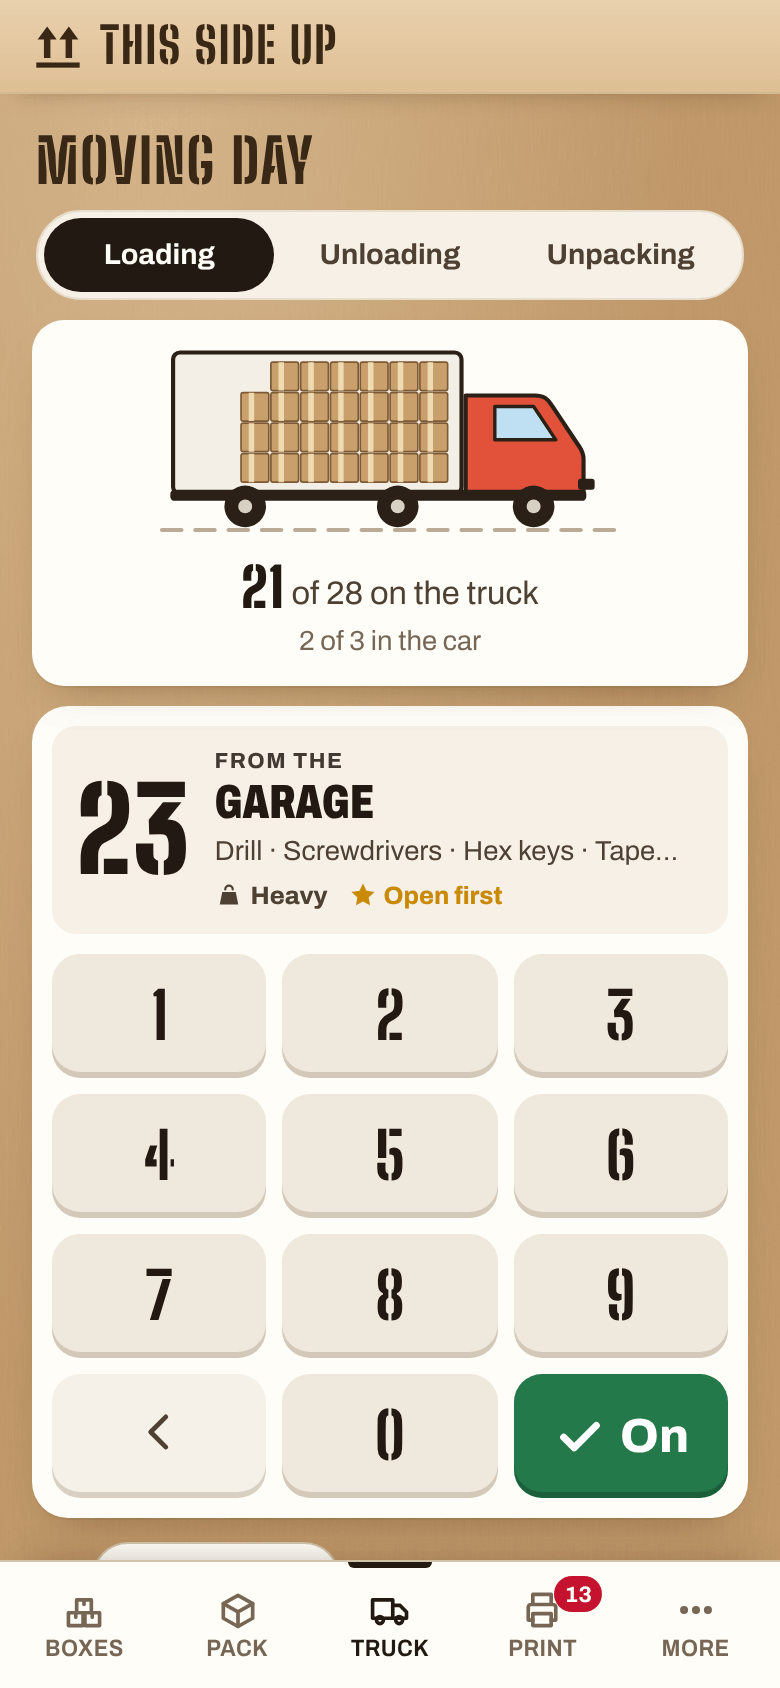
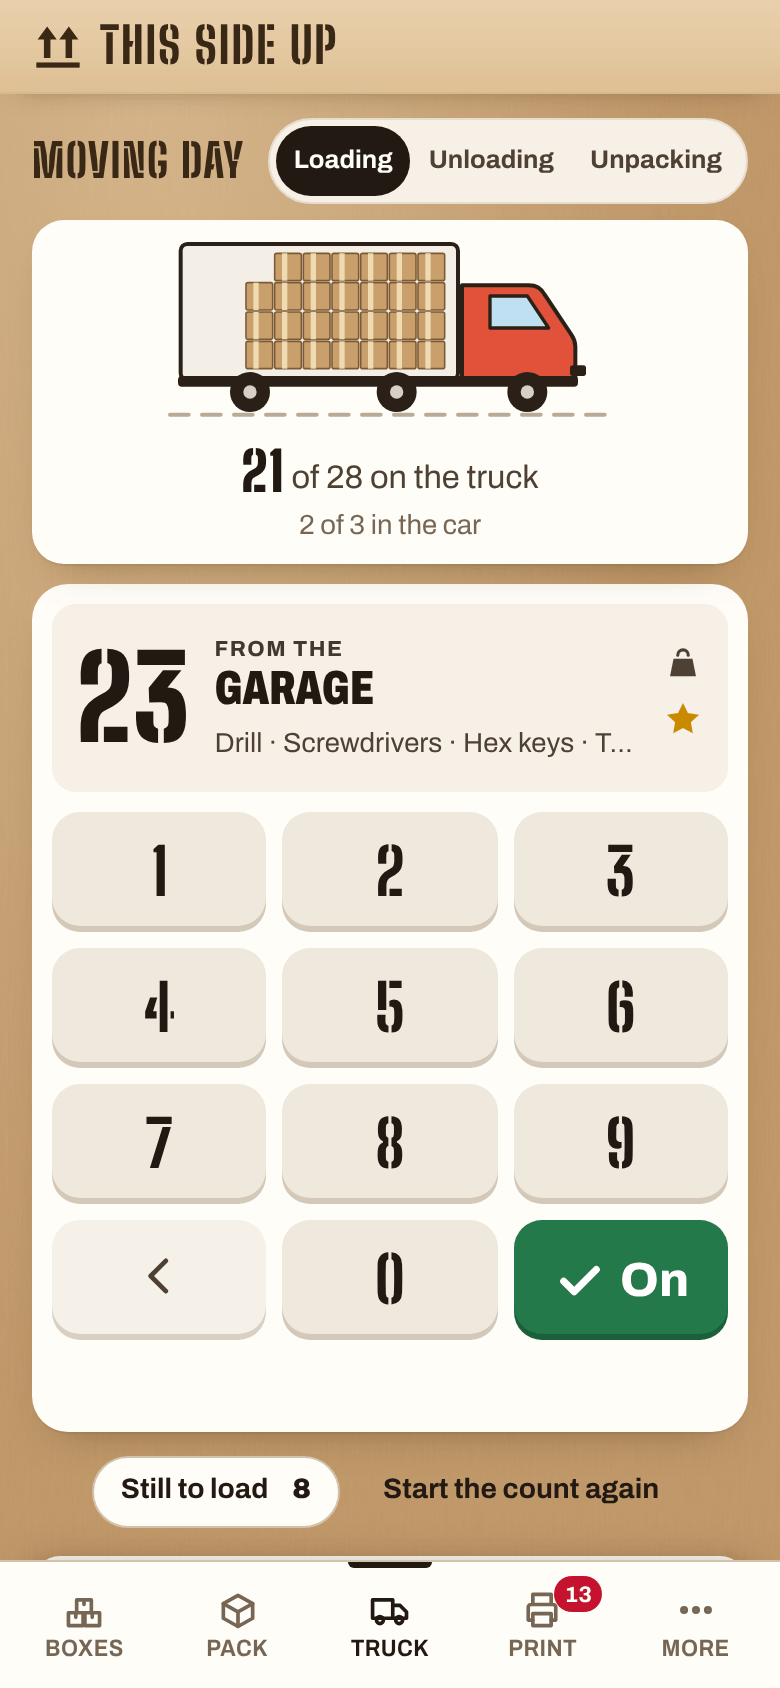
Screenshots show the new pad, and their codes open the real site
tools/screenshots.mjs served the page from a local server on a random port, so the QR code on the label in og.png
(and in the README's phone shots) was a link to http://localhost:38521/, and every run changed the images. It now
answers the real address from this folder, so the codes open junkdrawer.works/this-side-up/ and two runs give the
same files. A tab's id now comes from crypto, so it doesn't use up the seeded Math.random the example's ids come
from. docs/phone-truck.png shows the new number pad.

Claude-Session: https://claude.ai/code/session_01N3tHmrVtD9q2Zcak1ErX34

Changed region(s): [[0.0308, 0.0616, 0.9846, 0.9242]]

diff --git a/js/store.js b/js/store.js
@@ -105,7 +105,9 @@ const tab = (() => {
   let id = '';
   try { id = sessionStorage.getItem(TAB_KEY) || ''; } catch { /* no session storage: an id for this page */ }
   if (!id) {
-    id = Math.random().toString(36).slice(2, 10);
+    // From crypto rather than Math.random, which the screenshots seed for the example's ids.
+    const r = globalThis.crypto?.getRandomValues?.(new Uint32Array(2)) || [Math.random() * 2 ** 32, Math.random() * 2 ** 32];
+    id = Array.from(r, v => (v >>> 0).toString(36)).join('').slice(0, 10);
     try { sessionStorage.setItem(TAB_KEY, id); } catch { /* it lasts as long as the page, then */ }
   }
   return id;
